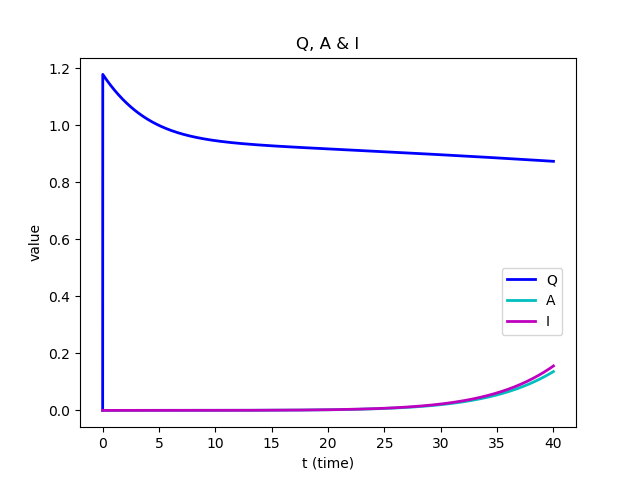
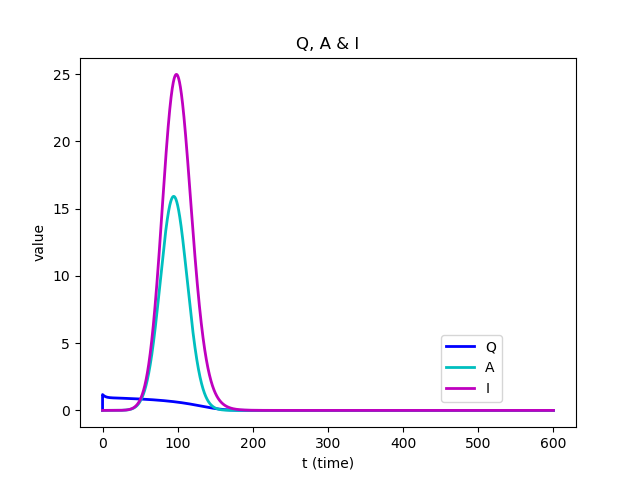
ggg

diff --git a/angiogenesis/Chemotaxis_paradox/LEGI Ultrasensitive model/coef_setting.py b/angiogenesis/Chemotaxis_paradox/LEGI Ultrasensitive model/coef_setting.py
@@ -30,12 +30,12 @@ def declare_coef(): #1
     '''VEGF (c)'''
     coef['vel'] = 1 #velocity of wave
     coef['A_c'] = 1 #amplitude of wave
-    coef['vari'] = 600#1 #600 #variance of wave
+    coef['vari'] = 600 #1 #600 #variance of wave
 
     
     '''Spatial and Temporal Meshes Number'''
     ##set dictionaries (fixed: never change)
-    set['T'] = 40 + 0.001 #second #100 #300
+    set['T'] = 600 + 0.001 #second #100 #300
     set['delay'] =90 #5 #90
     set['Nt'] = 1000000
     set['dt'] = 0.01

diff --git a/angiogenesis/Chemotaxis_paradox/LEGI Ultrasensitive model/init_1d.py b/angiogenesis/Chemotaxis_paradox/LEGI Ultrasensitive model/init_1d.py
@@ -6,7 +6,7 @@ def init_1d_(coef,set,sol): #2.1.1
     
     sol['A'] = [0]
     sol['I'] = [0]
-    sol['Ki'] = [0]
+    sol['Ki'] = [1]
     sol['Q'] = [0]
     sol['Qr'] = [0]
     
